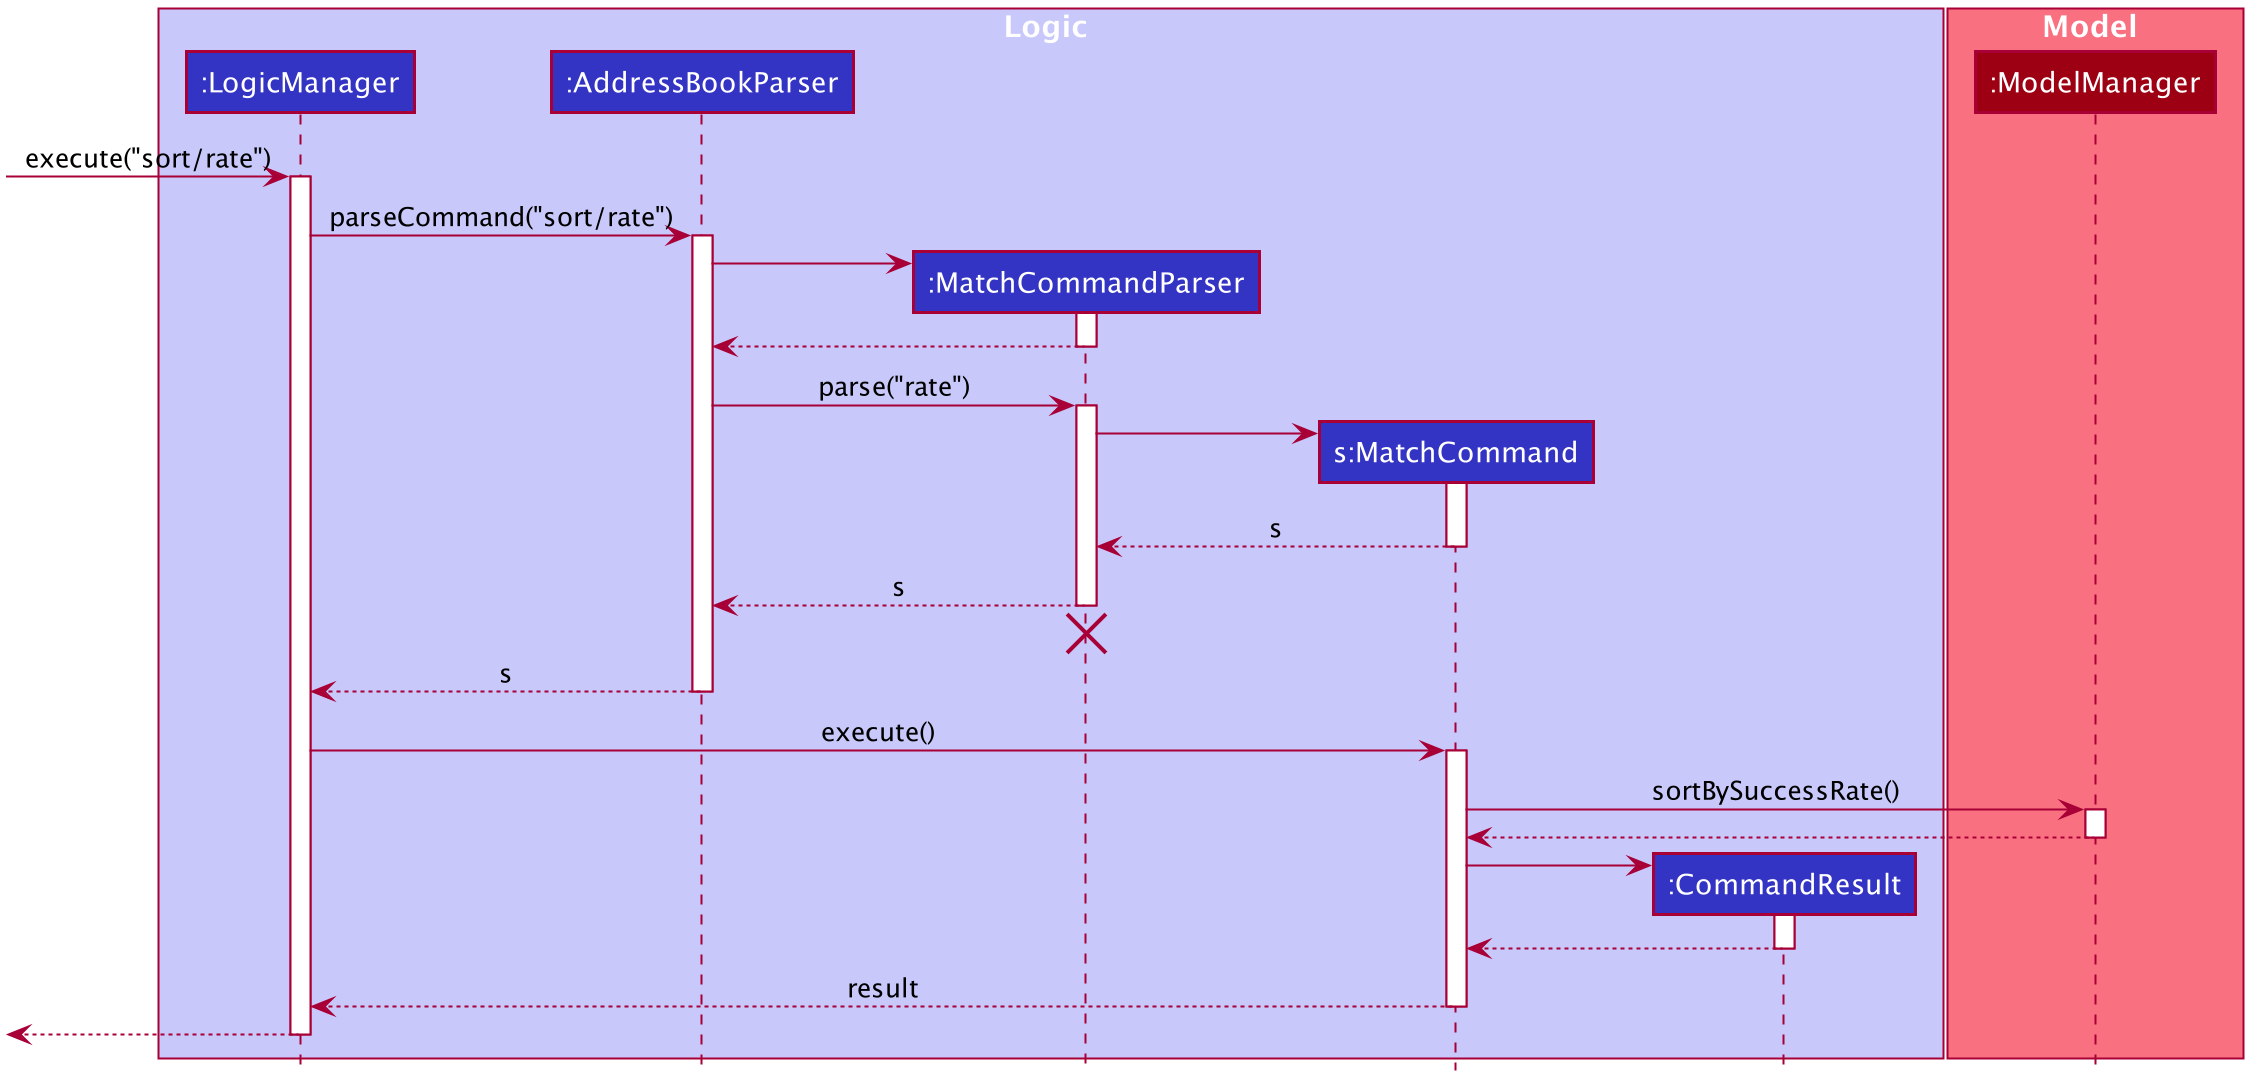
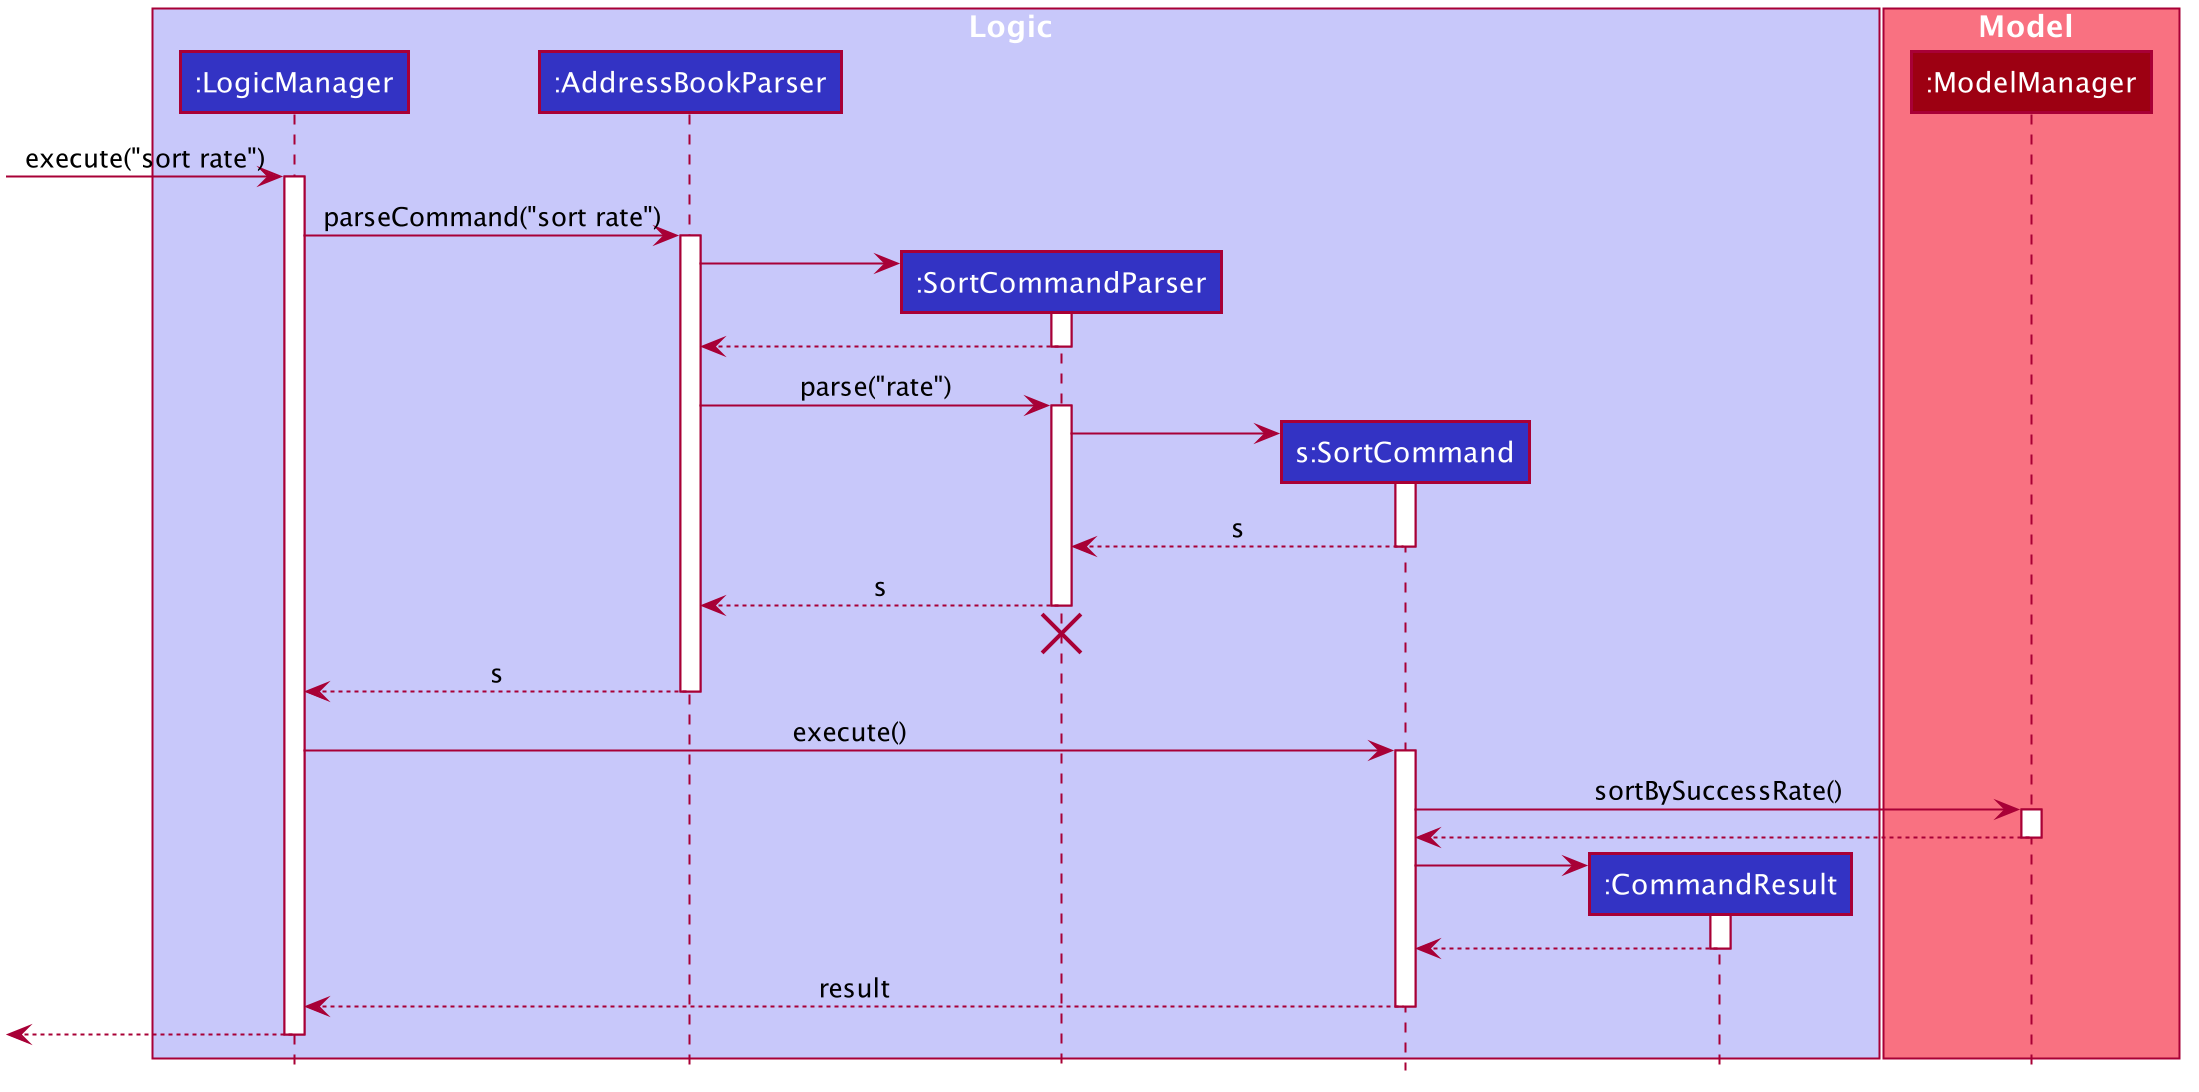
Rebuild pages at 865eecc78a415e0bfe7f05a94d415c370234d5e5

diff --git a/UserGuide.html b/UserGuide.html
@@ -790,12 +790,14 @@ what you can do:</p>
 <p>Type <code>match ic/S1234568R</code> in the Command Box and press <kbd>Enter</kbd>.</p>
 </li>
 <li>
-<p>The list of donors and their success rate are displayed as shown in the screenshot below. The success rate is a number
-which indicates the degree of compatibility between the patient and donor.<br></p>
+<p>The list of donors and their success rate are displayed as shown in the screenshot below.<br></p>
 <div class="imageblock">
 <div class="content">
 <img src="images/MatchingDonorsDisplayed.png" alt="MatchingDonorsDisplayed" width="790">
 </div>
+</div>
+<div class="paragraph">
+<p>For more information on success rate, you may refer to <a href="#faq">Section 6, &#8220;FAQ&#8221;</a>.</p>
 </div>
 </li>
 </ol>
@@ -820,6 +822,12 @@ To match all the patients in ORGANice, do the following:</p>
 <img src="images/Patient%20Matches%20Displayed.png" alt="Patient Matches Displayed" width="790">
 </div>
 </div>
+<div class="paragraph">
+<p>Following this, you can sort the matches based on different categories to deduce which patient to prioritize.</p>
+</div>
+<div class="paragraph">
+<p>Refer to refer to <a href="#sorting-matches-code-sort-code">Section 4.8, &#8220;Sorting matches: <code>sort</code>&#8221;</a> for more information.</p>
+</div>
 </li>
 </ol>
 </div>
@@ -828,46 +836,79 @@ To match all the patients in ORGANice, do the following:</p>
 <div class="sect2">
 <h3 id="sorting-matches-code-sort-code"><a class="link" href="#sorting-matches-code-sort-code">4.8. Sorting matches: <code>sort</code></a></h3>
 <div class="paragraph">
-<p>Users can specify how they want the patient-donor pairs to be sorted.<br>
-Sorting is done by passing in optional parameters to the <code>match</code> command.<br></p>
+<p>After matching patients and donors, you can sort the list of matches to determine which patient to prioritize for organ transplant.</p>
 </div>
 <div class="paragraph">
-<p>Matches can be sorted according to three categories:</p>
-</div>
-<div class="olist arabic">
-<ol class="arabic">
-<li>
-<p>Success rate of match</p>
-</li>
-<li>
-<p>Priority of patient</p>
-</li>
-<li>
-<p>Date of expiry of donors' organs</p>
-</li>
-</ol>
-</div>
-<div class="paragraph">
-<p>To return a sorted list of patient-donor pairs, include the <code>sort/</code> flag in the command.<br>
-Format:
-<code>match ic/<strong>NRIC</strong> sort/[rate/priority/expiry]</code></p>
-</div>
-<div class="paragraph">
-<p>Typing this command causes the application to display a list of matches sorted
-according to the specified criteria. More than one sorting criteria can be included.</p>
-</div>
-<div class="paragraph">
-<p>Examples:</p>
+<p><strong>The sort command can only be used after a match command</strong> to sort the resulting list of patient-donor pairs generated.
+There are three categories by which you can sort the matches, namely:</p>
 </div>
 <div class="ulist">
 <ul>
 <li>
-<p><code>match ic/S7778983D sort/rate</code></p>
+<p>Sorting based on donor&#8217;s organ expiry date</p>
 </li>
 <li>
-<p><code>match ic/S7778983D sort/rate, priority, expiry</code></p>
+<p>Sorting based on priority</p>
+</li>
+<li>
+<p>Sorting based on success rate of match</p>
 </li>
 </ul>
+</div>
+<div class="paragraph">
+<p>These categories are further elaborated below. Note that <strong>only one category can be used in one sort command</strong>.</p>
+</div>
+<div class="sect3">
+<h4 id="sorting-based-on-donor-s-organ-expiry-date"><a class="link" href="#sorting-based-on-donor-s-organ-expiry-date">4.8.1. Sorting based on donor&#8217;s organ expiry date</a></h4>
+<div class="paragraph">
+<p>This category sorts a list of matched donors belonging to a particular patient based on the donated organ&#8217;s expiry date (from the earliest to the latest expiry date).</p>
+</div>
+<div class="paragraph">
+<p>This allows you to determine which organs are expiring soon so that you can prioritize them for organ transplant.</p>
+</div>
+<div class="paragraph">
+<p>Format: <code>sort expiry</code></p>
+</div>
+<div class="paragraph">
+<p>Example:<br>
+After running a match command on a specific patient with <code>match ic/<strong>NRIC</strong></code>, you will get the list of donors that are compatible with said patient.
+You can then run <code>sort expiry</code> to obtain the list of donors with the earliest organ expiration date at the top of the list.</p>
+</div>
+</div>
+<div class="sect3">
+<h4 id="sorting-based-on-priority"><a class="link" href="#sorting-based-on-priority">4.8.2. Sorting based on priority</a></h4>
+<div class="paragraph">
+<p>This category sorts a list of matched patients based on their priority (from highest to lowest). You may refer to <a href="#glossary">Section 8, &#8220;Glossary&#8221;</a> for more information on priority.</p>
+</div>
+<div class="paragraph">
+<p>This allows you to determine which patient to prioritize for organ transplant.</p>
+</div>
+<div class="paragraph">
+<p>Format: <code>sort priority</code></p>
+</div>
+<div class="paragraph">
+<p>Example:<br>
+After running <code>match ic/all</code>, you will obtain a list of patients.<br>
+You can then run <code>sort priority</code> to obtain a list with high priority patients at the top of the list.</p>
+</div>
+</div>
+<div class="sect3">
+<h4 id="sorting-based-on-success-rate-of-match"><a class="link" href="#sorting-based-on-success-rate-of-match">4.8.3. Sorting based on success rate of match</a></h4>
+<div class="paragraph">
+<p>This category sorts the list of matched donors belonging to a particular patient based on the success rate of the match (from highest to lowest).
+(Refer to <a href="#glossary">Section 8, &#8220;Glossary&#8221;</a> for more information on success rate.)</p>
+</div>
+<div class="paragraph">
+<p>This allows you to determine which patient-donor pair has the highest compatibility and are safe to proceed for organ transplant.</p>
+</div>
+<div class="paragraph">
+<p>Format: <code>sort rate</code></p>
+</div>
+<div class="paragraph">
+<p>Example:<br>
+After running a match command on a specific patient with <code>match ic/<strong>NRIC</strong></code>, you will get the list of donors that are compatible with said patient.
+You can then run <code>sort rate</code> to obtain the list of donors with the highest success rate at the top of the list. <br></p>
+</div>
 </div>
 </div>
 <div class="sect2">
@@ -1099,6 +1140,10 @@ that contains the data of your previous ORGANice folder.</p>
 </li>
 </ol>
 </div>
+<div class="paragraph">
+<p><strong>Q</strong>: What is the success rate and how is it computed?<br>
+<strong>A</strong>: The success rate measures the tissue compatibility between a donor and a patient. It is computed via this formula: (number of common tissue types between donor and patient) / 6 * 100%</p>
+</div>
 </div>
 </div>
 <div class="sect1">
@@ -1216,7 +1261,13 @@ for harmful interactions between patient and donor&#8217;s blood</p>
 <li>
 <p>duplicate: refers to two persons of the same type which have the same NRIC</p>
 </li>
+<li>
+<p>success rate: refers to a number which indicates the degree of compatibility between the patient and donor. This percentage is calculated from the number of tissue matches between the patient and donor.</p>
+</li>
+<li>
+<p>priority: used to indicate the level of importance or urgency of getting organ transplant for the patient. The different levels are include high, medium and low, and it is specified by the doctor after an assessment.</p>
+</li>
 </ul>
 </div>
 </div>
-</div></div><div id="footer"><div class="container"><div id="footer-text">Last updated 2019-10-30 15:13:46 UTC</div></div></div></body></html>
+</div></div><div id="footer"><div class="container"><div id="footer-text">Last updated 2019-10-30 15:23:46 UTC</div></div></div></body></html>

diff --git a/DeveloperGuide.html b/DeveloperGuide.html
@@ -235,9 +235,6 @@ Figure 4 below depicts the classes in the UI component and their relationships w
 <div class="title">Figure 4. Structure of the UI Component</div>
 </div>
 <div class="paragraph">
-<p><strong>API</strong> : <a href="https://github.com/AY1920S1-CS2103T-T13-1/main/src/main/java/seedu/address/ui/Ui.java"><code>Ui.java</code></a></p>
-</div>
-<div class="paragraph">
 <p>The UI consists of a <code>MainWindow</code> that is made up of parts e.g.<code>CommandBox</code>, <code>ResultDisplay</code>, <code>PersonListPanel</code>, <code>StatusBarFooter</code> etc. All these, including the <code>MainWindow</code>, inherit from the abstract <code>UiPart</code> class.</p>
 </div>
 <div class="paragraph">
@@ -268,10 +265,6 @@ Figure 5 below depicts the classes in the Logic component and their relationship
 <img src="images/LogicClassDiagram.png" alt="LogicClassDiagram">
 </div>
 <div class="title">Figure 5. Structure of the Logic Component</div>
-</div>
-<div class="paragraph">
-<p><strong>API</strong> :
-<a href="https://github.com/AY1920S1-CS2103T-T13-1/main/src/main/java/seedu/address/logic/Logic.java"><code>Logic.java</code></a></p>
 </div>
 <div class="olist arabic">
 <ol class="arabic">
@@ -323,9 +316,6 @@ The lifeline for <code>EditCommandParser</code> should end at the destroy marker
 <div class="title">Figure 7. Structure of the Model Component</div>
 </div>
 <div class="paragraph">
-<p><strong>API</strong> : <a href="https://github.com/AY1920S1-CS2103T-T13-1/main/src/main/java/seedu/address/model/Model.java"><code>Model.java</code></a></p>
-</div>
-<div class="paragraph">
 <p>The <code>Model</code>,</p>
 </div>
 <div class="ulist">
@@ -352,9 +342,6 @@ The lifeline for <code>EditCommandParser</code> should end at the destroy marker
 <img src="images/StorageClassDiagram.png" alt="StorageClassDiagram">
 </div>
 <div class="title">Figure 8. Structure of the Storage Component</div>
-</div>
-<div class="paragraph">
-<p><strong>API</strong> : <a href="https://github.com/AY1920S1-CS2103T-T13-1/main/src/main/java/seedu/address/storage/Storage.java"><code>Storage.java</code></a></p>
 </div>
 <div class="paragraph">
 <p>The <code>Storage</code> component,</p>
@@ -1083,12 +1070,13 @@ Additionally, it implements the following operations:</p>
 <div class="sect2">
 <h3 id="use-case-sort-list-according-to-priority-rate-expiry"><a class="link" href="#use-case-sort-list-according-to-priority-rate-expiry">C.2. Use case: Sort list according to priority/rate/expiry</a></h3>
 <div class="paragraph">
-<p>Given below is the Sequence Diagram for the interactions with the <code>Logic</code> component for the <code>execute(sort/rate)</code></p>
+<p>Given below is the Sequence Diagram for the interactions with the <code>Logic</code> component for the <code>execute(sort rate)</code>.</p>
 </div>
-<div class="paragraph">
-<p>+
-.Structure of the Logic Component when executing <code>sort</code> command
-image::SortSequenceDiagram.png[]</p>
+<div class="imageblock">
+<div class="content">
+<img src="images/SortSequenceDiagram.png" alt="SortSequenceDiagram">
+</div>
+<div class="title">Figure 10. Structure of the Logic Component when executing <code>sort</code> command</div>
 </div>
 <div class="paragraph">
 <p><strong>MSS</strong></p>
@@ -1142,7 +1130,7 @@ image::SortSequenceDiagram.png[]</p>
 <div class="content">
 <img src="images/ListActivityDiagram.png" alt="ListActivityDiagram">
 </div>
-<div class="title">Figure 10. Activity Diagram of a List Command</div>
+<div class="title">Figure 11. Activity Diagram of a List Command</div>
 </div>
 <div class="paragraph">
 <p><strong>MSS</strong></p>
@@ -1348,4 +1336,4 @@ Expected: Similar to previous.</p>
 </div>
 </div>
 </div>
-</div></div><div id="footer"><div class="container"><div id="footer-text">Last updated 2019-10-30 15:13:46 UTC</div></div></div></body></html>
+</div></div><div id="footer"><div class="container"><div id="footer-text">Last updated 2019-10-30 15:23:46 UTC</div></div></div></body></html>

diff --git a/tutorials/RemovingFields.html b/tutorials/RemovingFields.html
@@ -175,4 +175,4 @@ While keeping the <code>address</code> field in the json files does not cause th
 <p>You can go through each individual <code>json</code> file and manually remove the <code>address</code> field.</p>
 </div>
 </div>
-</div></div><div id="footer"><div class="container"><div id="footer-text">Last updated 2019-10-30 15:13:46 UTC</div></div></div></body></html>
+</div></div><div id="footer"><div class="container"><div id="footer-text">Last updated 2019-10-30 15:23:46 UTC</div></div></div></body></html>

diff --git a/tutorials/AddRemark.html b/tutorials/AddRemark.html
@@ -616,4 +616,4 @@ In this case, <code>CommandTestUtil#assertCommandSuccess</code> is the best fit 
 <p>This concludes the tutorial for adding a new <code>Command</code> to AddressBook.</p>
 </div>
 </div>
-</div></div><div id="footer"><div class="container"><div id="footer-text">Last updated 2019-10-30 15:13:46 UTC</div></div></div></body></html>
+</div></div><div id="footer"><div class="container"><div id="footer-text">Last updated 2019-10-30 15:23:46 UTC</div></div></div></body></html>

diff --git a/Testing.html b/Testing.html
@@ -90,4 +90,4 @@ e.g. <code>organice.logic.LogicManagerTest</code></p>
 <div class="title">Figure 1. <code>Accessibility</code> permission is granted to <code>IntelliJ IDEA</code></div>
 </div>
 </div>
-</div></div><div id="footer"><div class="container"><div id="footer-text">Last updated 2019-10-30 15:13:46 UTC</div></div></div></body></html>
+</div></div><div id="footer"><div class="container"><div id="footer-text">Last updated 2019-10-30 15:23:46 UTC</div></div></div></body></html>

diff --git a/team/johndoe.html b/team/johndoe.html
@@ -272,4 +272,4 @@ Format: <code>delete ic/<strong>NRIC</strong></code></p>
 <p><em>{Optionally, you may include other projects in your portfolio.}</em></p>
 </div>
 </div>
-</div></div><div id="footer"><div class="container"><div id="footer-text">Last updated 2019-10-30 15:13:46 UTC</div></div></div></body></html>
+</div></div><div id="footer"><div class="container"><div id="footer-text">Last updated 2019-10-30 15:23:46 UTC</div></div></div></body></html>

diff --git a/ContactUs.html b/ContactUs.html
@@ -12,4 +12,4 @@
 <p><strong>Email us</strong> : You can also reach us at <code>iskandar [at] u.nus.edu.sg</code></p>
 </li>
 </ul>
-</div></div><div id="footer"><div class="container"><div id="footer-text">Last updated 2019-10-30 15:13:46 UTC</div></div></div></body></html>
+</div></div><div id="footer"><div class="container"><div id="footer-text">Last updated 2019-10-30 15:23:46 UTC</div></div></div></body></html>

diff --git a/LearningOutcomes.html b/LearningOutcomes.html
@@ -474,4 +474,4 @@ of storages, but different number of storages (e.g. save to both a text file and
 </div>
 </div>
 </div>
-</div></div><div id="footer"><div class="container"><div id="footer-text">Last updated 2019-10-30 15:13:46 UTC</div></div></div></body></html>
+</div></div><div id="footer"><div class="container"><div id="footer-text">Last updated 2019-10-30 15:23:46 UTC</div></div></div></body></html>

diff --git a/SettingUp.html b/SettingUp.html
@@ -180,4 +180,4 @@ Having both Travis and AppVeyor ensures your App works on both Unix-based platfo
 </div>
 </div>
 </div>
-</div></div><div id="footer"><div class="container"><div id="footer-text">Last updated 2019-10-30 15:13:46 UTC</div></div></div></body></html>
+</div></div><div id="footer"><div class="container"><div id="footer-text">Last updated 2019-10-30 15:23:46 UTC</div></div></div></body></html>

diff --git a/UsingCoveralls.html b/UsingCoveralls.html
@@ -111,4 +111,4 @@ If you have not set up Travis CI, see <a href="UsingTravis.html">UsingTravis.ado
 </ol>
 </div>
 </div>
-</div></div><div id="footer"><div class="container"><div id="footer-text">Last updated 2019-10-30 15:13:46 UTC</div></div></div></body></html>
+</div></div><div id="footer"><div class="container"><div id="footer-text">Last updated 2019-10-30 15:23:46 UTC</div></div></div></body></html>

diff --git a/UsingGradle.html b/UsingGradle.html
@@ -228,4 +228,4 @@ See <code>build.gradle</code> &#8594; <code>allprojects</code> &#8594; <code>dep
 </ul>
 </div>
 </div>
-</div></div><div id="footer"><div class="container"><div id="footer-text">Last updated 2019-10-30 15:13:46 UTC</div></div></div></body></html>
+</div></div><div id="footer"><div class="container"><div id="footer-text">Last updated 2019-10-30 15:23:46 UTC</div></div></div></body></html>

diff --git a/UsingNetlify.html b/UsingNetlify.html
@@ -138,4 +138,4 @@ The publish directory is the directory in which the built HTML documentation res
 </ol>
 </div>
 </div>
-</div></div><div id="footer"><div class="container"><div id="footer-text">Last updated 2019-10-30 15:13:46 UTC</div></div></div></body></html>
+</div></div><div id="footer"><div class="container"><div id="footer-text">Last updated 2019-10-30 15:23:46 UTC</div></div></div></body></html>
